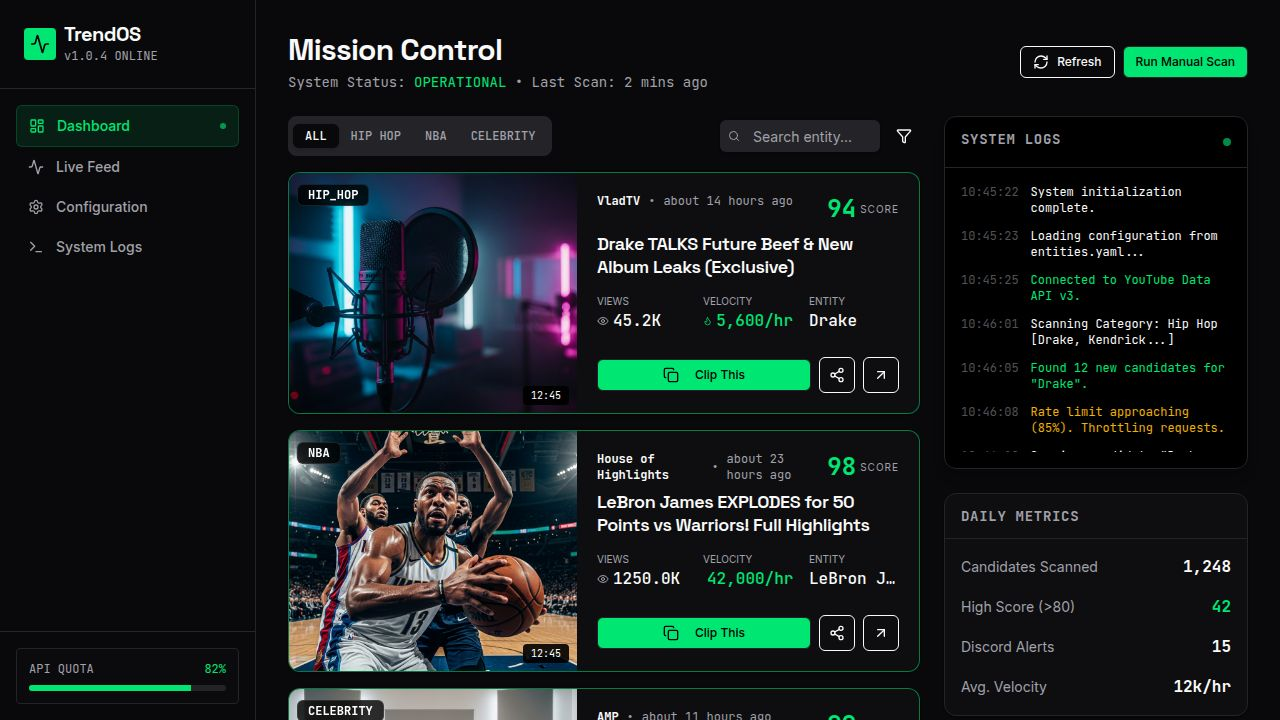
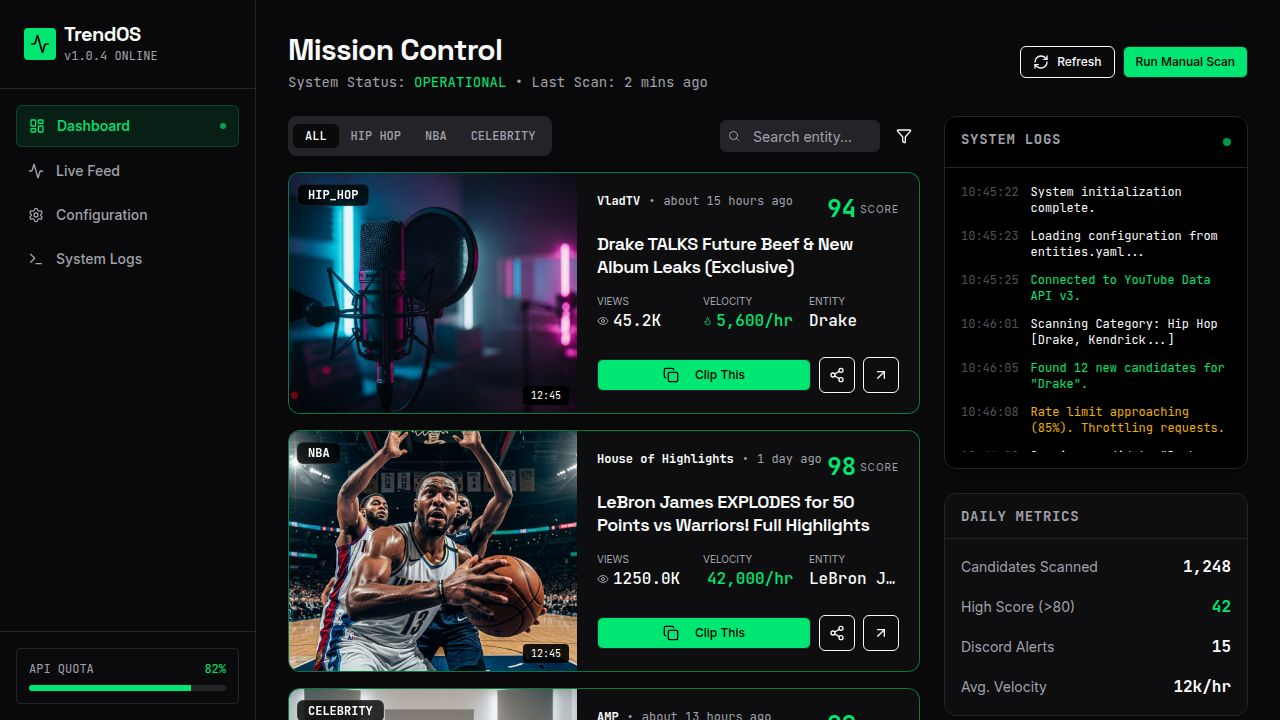
Create a dedicated system logs page with filtering and controls
Add a new route for system logs, implement a terminal interface with filtering, and enhance mock log data with module information.

Replit-Commit-Author: Agent
Replit-Commit-Session-Id: 7dc08b67-731e-4819-be29-927909ed86cc
Replit-Commit-Checkpoint-Type: full_checkpoint
Replit-Commit-Event-Id: 2165b586-4b07-4a57-9ddd-67acf2fd4243
Replit-Commit-Screenshot-Url: https://storage.googleapis.com/screenshot-production-us-central1/f1c3b9f2-77e6-412d-833a-879911f40f28/7dc08b67-731e-4819-be29-927909ed86cc/4dOZDlD
Replit-Helium-Checkpoint-Created: true

diff --git a/client/src/pages/logs.tsx b/client/src/pages/logs.tsx
@@ -1,0 +1,123 @@
+import { useState, useRef, useEffect } from "react";
+import Layout from "@/components/layout";
+import { MOCK_LOGS, LogEntry } from "@/lib/mock-data";
+import { Card } from "@/components/ui/card";
+import { Input } from "@/components/ui/input";
+import { Button } from "@/components/ui/button";
+import { Badge } from "@/components/ui/badge";
+import { ScrollArea } from "@/components/ui/scroll-area";
+import { Search, Download, Pause, Play, Trash2, Filter } from "lucide-react";
+import { cn } from "@/lib/utils";
+
+export default function Logs() {
+  const [isPaused, setIsPaused] = useState(false);
+  const [filter, setFilter] = useState("");
+  const scrollRef = useRef<HTMLDivElement>(null);
+  
+  // Filter logs based on search
+  const filteredLogs = MOCK_LOGS.filter(log => 
+    log.message.toLowerCase().includes(filter.toLowerCase()) || 
+    log.module?.toLowerCase().includes(filter.toLowerCase()) ||
+    log.level.toLowerCase().includes(filter.toLowerCase())
+  );
+
+  return (
+    <Layout>
+      <div className="max-w-7xl mx-auto h-[calc(100vh-8rem)] flex flex-col gap-6">
+        
+        {/* Header */}
+        <div className="flex items-center justify-between shrink-0">
+          <div>
+            <h1 className="text-3xl font-heading font-bold mb-1">System Logs</h1>
+            <p className="text-muted-foreground font-mono text-sm">
+              Real-time execution trace and error reporting.
+            </p>
+          </div>
+          <div className="flex items-center gap-2">
+            <Button variant="outline" size="sm" className="gap-2" onClick={() => setIsPaused(!isPaused)}>
+              {isPaused ? <Play className="w-4 h-4" /> : <Pause className="w-4 h-4" />}
+              {isPaused ? "Resume" : "Pause Output"}
+            </Button>
+            <Button variant="outline" size="sm" className="gap-2">
+              <Download className="w-4 h-4" /> Export
+            </Button>
+            <Button variant="destructive" size="sm" className="gap-2">
+               <Trash2 className="w-4 h-4" /> Clear
+            </Button>
+          </div>
+        </div>
+
+        {/* Toolbar */}
+        <div className="flex items-center gap-4 shrink-0 bg-card p-2 rounded-lg border border-border">
+          <div className="relative flex-1">
+             <Search className="absolute left-3 top-1/2 -translate-y-1/2 w-4 h-4 text-muted-foreground" />
+             <Input 
+                value={filter}
+                onChange={(e) => setFilter(e.target.value)}
+                className="pl-9 font-mono text-sm bg-background border-border" 
+                placeholder="Filter logs by keyword, module, or level..." 
+             />
+          </div>
+          <div className="flex items-center gap-2 px-2">
+             <Badge variant="outline" className="cursor-pointer hover:bg-muted">ALL</Badge>
+             <Badge variant="outline" className="cursor-pointer hover:bg-muted text-primary border-primary/20 bg-primary/5">INFO</Badge>
+             <Badge variant="outline" className="cursor-pointer hover:bg-muted text-yellow-500 border-yellow-500/20 bg-yellow-500/5">WARN</Badge>
+             <Badge variant="outline" className="cursor-pointer hover:bg-muted text-destructive border-destructive/20 bg-destructive/5">ERROR</Badge>
+          </div>
+        </div>
+
+        {/* Terminal Window */}
+        <Card className="flex-1 bg-black border-border shadow-2xl overflow-hidden flex flex-col font-mono text-sm">
+           <div className="flex items-center justify-between px-4 py-2 border-b border-white/10 bg-white/5">
+              <div className="flex items-center gap-2">
+                 <div className="flex gap-1.5">
+                    <div className="w-3 h-3 rounded-full bg-red-500/20 border border-red-500/50" />
+                    <div className="w-3 h-3 rounded-full bg-yellow-500/20 border border-yellow-500/50" />
+                    <div className="w-3 h-3 rounded-full bg-green-500/20 border border-green-500/50" />
+                 </div>
+                 <span className="text-xs text-muted-foreground ml-2">user@trend-os:~/logs</span>
+              </div>
+              <div className="text-xs text-muted-foreground">bash - 80x24</div>
+           </div>
+           
+           <ScrollArea className="flex-1 p-4" ref={scrollRef}>
+              <div className="space-y-1">
+                 {filteredLogs.map((log) => (
+                    <div key={log.id} className="flex gap-3 hover:bg-white/5 p-1 rounded -mx-1 group transition-colors">
+                       <span className="text-muted-foreground opacity-50 w-20 shrink-0 select-none">{log.timestamp}</span>
+                       <span className={cn(
+                          "uppercase w-16 shrink-0 font-bold select-none text-center rounded px-1 text-[10px] py-0.5 self-start mt-0.5",
+                          log.level === 'error' ? 'bg-destructive/20 text-destructive' :
+                          log.level === 'warn' ? 'bg-yellow-500/20 text-yellow-500' :
+                          log.level === 'success' ? 'bg-primary/20 text-primary' :
+                          'bg-blue-500/20 text-blue-500'
+                       )}>
+                          {log.level}
+                       </span>
+                       {log.module && (
+                          <span className="text-purple-400 w-24 shrink-0 hidden sm:block">[{log.module}]</span>
+                       )}
+                       <span className={cn(
+                          "break-all",
+                          log.level === 'error' ? 'text-red-200' : 
+                          'text-gray-300'
+                       )}>
+                          {log.message}
+                       </span>
+                    </div>
+                 ))}
+                 
+                 {!isPaused && (
+                   <div className="animate-pulse text-primary mt-2 flex items-center gap-2">
+                      <span className="w-2 h-4 bg-primary block" />
+                      <span className="opacity-50 text-xs">Awaiting new events...</span>
+                   </div>
+                 )}
+              </div>
+           </ScrollArea>
+        </Card>
+
+      </div>
+    </Layout>
+  );
+}

diff --git a/client/src/lib/mock-data.ts b/client/src/lib/mock-data.ts
@@ -104,17 +104,28 @@ export interface LogEntry {
   timestamp: string;
   level: 'info' | 'warn' | 'success' | 'error';
   message: string;
+  module?: string;
 }
 
 export const MOCK_LOGS: LogEntry[] = [
-  { id: '1', timestamp: '10:45:22', level: 'info', message: 'System initialization complete.' },
-  { id: '2', timestamp: '10:45:23', level: 'info', message: 'Loading configuration from entities.yaml...' },
-  { id: '3', timestamp: '10:45:25', level: 'success', message: 'Connected to YouTube Data API v3.' },
-  { id: '4', timestamp: '10:46:01', level: 'info', message: 'Scanning Category: Hip Hop [Drake, Kendrick...]' },
-  { id: '5', timestamp: '10:46:05', level: 'success', message: 'Found 12 new candidates for "Drake".' },
-  { id: '6', timestamp: '10:46:08', level: 'warn', message: 'Rate limit approaching (85%). Throttling requests.' },
-  { id: '7', timestamp: '10:46:12', level: 'info', message: 'Scoring candidate "Drake TALKS Future..."' },
-  { id: '8', timestamp: '10:46:12', level: 'success', message: 'Score Calculated: 94/100 (Velocity High).' },
-  { id: '9', timestamp: '10:47:00', level: 'info', message: 'Scanning Category: NBA [LeBron, Curry...]' },
-  { id: '10', timestamp: '10:47:15', level: 'success', message: 'Discord Webhook sent: "Daily Clip Targets - 3 items".' },
+  { id: '1', timestamp: '10:45:22', level: 'info', message: 'System initialization complete.', module: 'system' },
+  { id: '2', timestamp: '10:45:23', level: 'info', message: 'Loading configuration from entities.yaml...', module: 'config' },
+  { id: '3', timestamp: '10:45:25', level: 'success', message: 'Connected to YouTube Data API v3.', module: 'network' },
+  { id: '4', timestamp: '10:46:01', level: 'info', message: 'Scanning Category: Hip Hop [Drake, Kendrick...]', module: 'scanner' },
+  { id: '5', timestamp: '10:46:05', level: 'success', message: 'Found 12 new candidates for "Drake".', module: 'scanner' },
+  { id: '6', timestamp: '10:46:08', level: 'warn', message: 'Rate limit approaching (85%). Throttling requests.', module: 'network' },
+  { id: '7', timestamp: '10:46:12', level: 'info', message: 'Scoring candidate "Drake TALKS Future..."', module: 'scorer' },
+  { id: '8', timestamp: '10:46:12', level: 'success', message: 'Score Calculated: 94/100 (Velocity High).', module: 'scorer' },
+  { id: '9', timestamp: '10:47:00', level: 'info', message: 'Scanning Category: NBA [LeBron, Curry...]', module: 'scanner' },
+  { id: '10', timestamp: '10:47:15', level: 'success', message: 'Discord Webhook sent: "Daily Clip Targets - 3 items".', module: 'notifier' },
+  { id: '11', timestamp: '10:47:18', level: 'info', message: 'Scanning Category: Celebrity [Kai Cenat, Rogan...]', module: 'scanner' },
+  { id: '12', timestamp: '10:47:22', level: 'error', message: 'Connection timeout: api.tiktok.com (Retrying 1/3)', module: 'network' },
+  { id: '13', timestamp: '10:47:25', level: 'info', message: 'Retrying connection to TikTok API...', module: 'network' },
+  { id: '14', timestamp: '10:47:28', level: 'success', message: 'TikTok API connection established.', module: 'network' },
+  { id: '15', timestamp: '10:47:35', level: 'info', message: 'Processing "Kai Cenat" streams...', module: 'scanner' },
+  { id: '16', timestamp: '10:47:42', level: 'info', message: 'Candidate found: "Kai Cenat & Kevin Hart" (Views: 890k)', module: 'scanner' },
+  { id: '17', timestamp: '10:47:43', level: 'success', message: 'Score Calculated: 99/100 (Viral Event Detected)', module: 'scorer' },
+  { id: '18', timestamp: '10:48:01', level: 'info', message: 'Archiving daily results to SQLite...', module: 'storage' },
+  { id: '19', timestamp: '10:48:05', level: 'success', message: 'Database backup completed: clip_trends_2025-12-12.db', module: 'storage' },
+  { id: '20', timestamp: '10:48:10', level: 'info', message: 'Waiting for next scheduled interval (60m).', module: 'system' }
 ];

diff --git a/client/src/App.tsx b/client/src/App.tsx
@@ -6,13 +6,14 @@ import { TooltipProvider } from "@/components/ui/tooltip";
 import NotFound from "@/pages/not-found";
 import Dashboard from "@/pages/dashboard";
 import Settings from "@/pages/settings";
+import Logs from "@/pages/logs";
 
 function Router() {
   return (
     <Switch>
       <Route path="/" component={Dashboard} />
       <Route path="/feed" component={Dashboard} />
-      <Route path="/logs" component={Dashboard} />
+      <Route path="/logs" component={Logs} />
       <Route path="/settings" component={Settings} />
       <Route component={NotFound} />
     </Switch>
